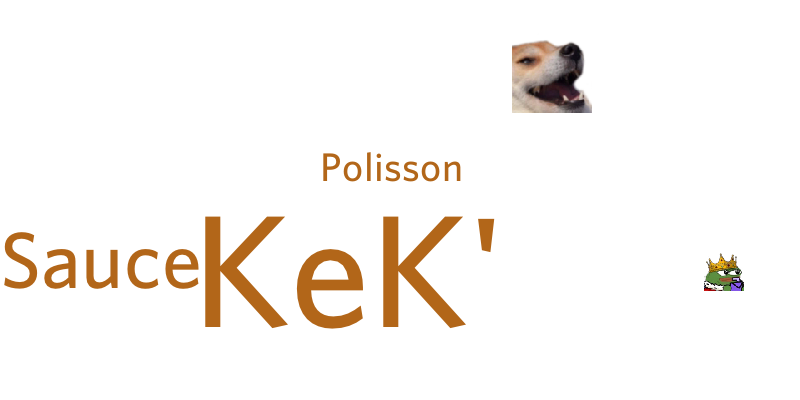
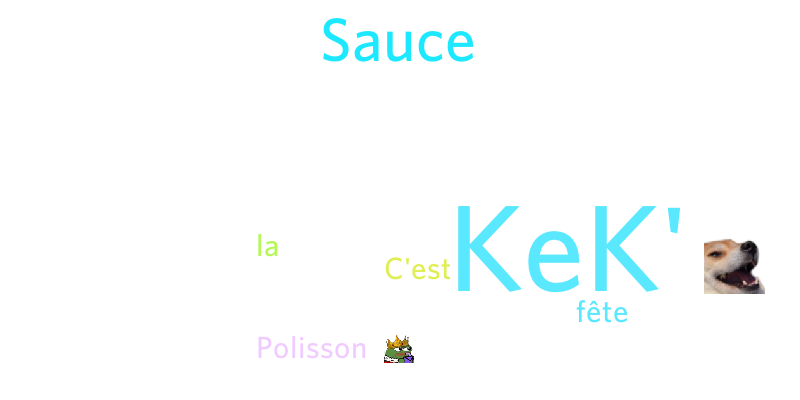
now generating colors

diff --git a/src/wordcloud/colors.rs b/src/wordcloud/colors.rs
@@ -1,9 +1,22 @@
-use palette::rgb::Rgba;
-use image::Rgba as IRgba;
+use lazy_static::lazy_static;
+use palette::{rgb::Rgba, FromColor, Lcha, Hue};
+use image::{Rgba as IRgba};
 use serenity::utils::Color;
+use rand::{self, rngs::ThreadRng, distributions::Uniform, prelude::Distribution};
+
+const ANGLES: [i32; 5] = [
+    -15, 0, 15, 180-15, 180+15
+];
+
+lazy_static! {
+    static ref INDEXES: Uniform<usize> = Uniform::from(0..ANGLES.len());
+    static ref H_NOISE: Uniform<f32> = Uniform::from(-2.0..2.);
+    static ref C_NOISE: Uniform<f32> = Uniform::from(-10.0..10.);
+}
 
 pub struct Colors {
-
+    anchor: Lcha,
+    rng: ThreadRng
 }
 
 fn convert_color(color: Rgba) -> IRgba<u8> {
@@ -16,11 +29,29 @@ fn convert_color(color: Rgba) -> IRgba<u8> {
 }
 
 impl Colors {
-    pub fn new(color: Option<Color>) -> Self {
-        Self {  }
+    pub fn new(color_opt: Option<Color>) -> Self {
+        let color: Rgba = match color_opt {
+            Some(color) => Rgba::new(
+                color.r() as f32/255., 
+                color.g() as f32/255., 
+                color.b() as f32/255., 
+                1.
+            ),
+            None => Rgba::new(1., 1., 1., 1.)
+        };
+        let mut anchor = Lcha::from_color(color);
+        anchor.chroma = anchor.chroma.max(20.);
+        Self {
+            rng: rand::thread_rng(),
+            anchor
+        }
     }
 
     pub fn get(&mut self) -> IRgba<u8> {
-        convert_color(Rgba::new(0.7, 0.4, 0.1, 1.0))
+        let angle = ANGLES[INDEXES.sample(&mut self.rng)] as f32;
+        let hue_shift = angle+H_NOISE.sample(&mut self.rng);
+        let mut new_color = self.anchor.shift_hue(hue_shift);
+        new_color.chroma += C_NOISE.sample(&mut self.rng);
+        convert_color(Rgba::from_color(new_color))
     }
 }

diff --git a/src/main.rs b/src/main.rs
@@ -1,4 +1,5 @@
 mod wordcloud;
+use serenity::utils::Color;
 use wordcloud::{wordcloud, Token};
 
 fn test_tokens() -> Vec<(Token, f32)> {
@@ -7,7 +8,10 @@ fn test_tokens() -> Vec<(Token, f32)> {
         (Token::IMG("assets/images/kingsip.webp".to_string()), 0.005), 
         (Token::TEXT("KeK'".to_string()), 0.02), 
         (Token::TEXT("Sauce".to_string()), 0.01), 
-        (Token::TEXT("Polisson".to_string()), 0.005)
+        (Token::TEXT("Polisson".to_string()), 0.005),
+        (Token::TEXT("C'est".to_string()), 0.005),
+        (Token::TEXT("la".to_string()), 0.005),
+        (Token::TEXT("fête".to_string()), 0.005)
     ]
 }
 
@@ -16,6 +20,6 @@ fn main() {
     // Parse it into the font type.
     let font = fontdue::Font::from_bytes(font, fontdue::FontSettings::default()).unwrap();
 
-    let wc = wordcloud(font, (800, 400), test_tokens(), None);
+    let wc = wordcloud(font, (800, 400), test_tokens(), Some(Color::from_rgb(220, 240, 60)));
     wc.save("test.png").unwrap();
 }

diff --git a/src/wordcloud/image.rs b/src/wordcloud/image.rs
@@ -1,6 +1,7 @@
 use std::fmt::Display;
 use image::{open, imageops::FilterType, GenericImage, RgbaImage, DynamicImage, GenericImageView};
 use itertools::Itertools;
+use std::path::Path;
 use super::{rasterisable::Rasterisable, hxbitmap::HXBitmap};
 
 pub struct Image {
@@ -19,7 +20,7 @@ impl Image {
 
 impl Display for Image {
     fn fmt(&self, f: &mut std::fmt::Formatter<'_>) -> std::fmt::Result {
-        write!(f, "{}", self.path)
+        write!(f, "{:?}", Path::new(&self.path).file_name())
     }
 }
 

diff --git a/src/wordcloud/wordcloud.rs b/src/wordcloud/wordcloud.rs
@@ -26,7 +26,7 @@ impl WorldCloud {
         match self.bitmap.place(bitmap) {
             Ok(pos) => {
                 token.draw(&mut self.image, pos);
-                println!("Placed {} at {:?}", token, pos);
+                println!("Placed `{}` at {:?}", token, pos);
                 true
             },
             Err(err) => {
